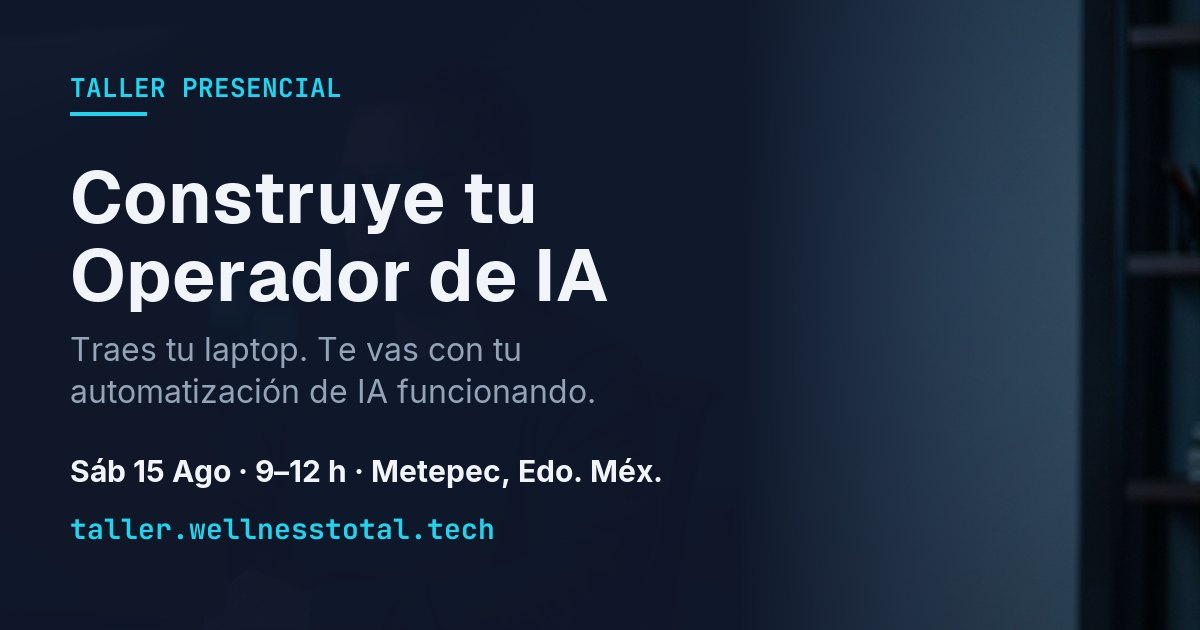
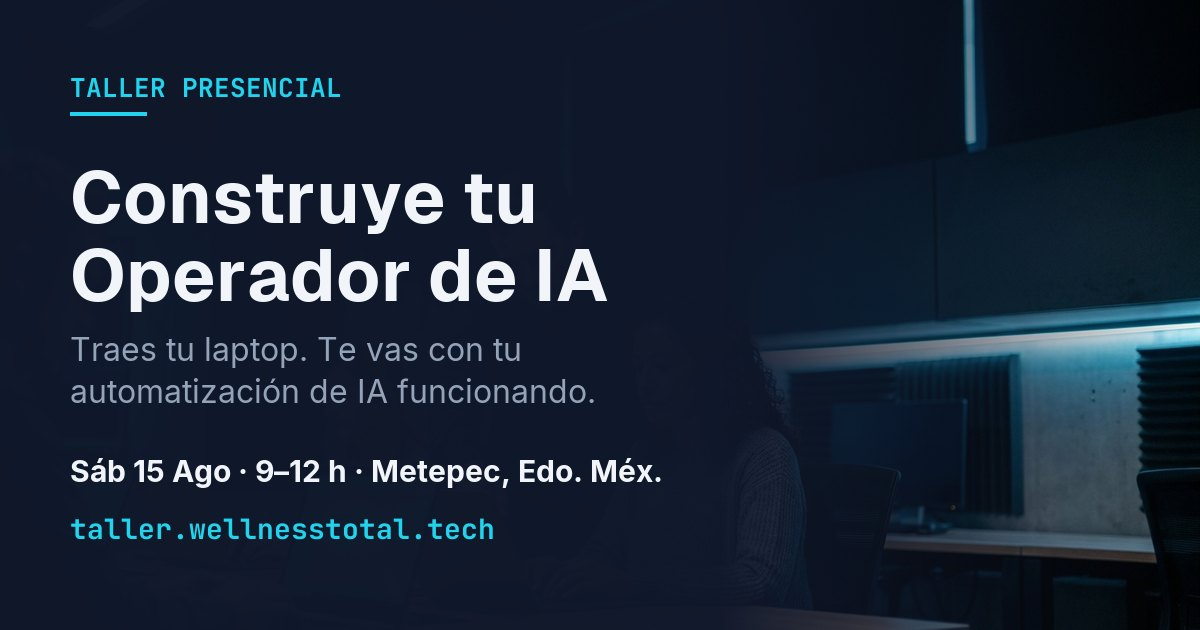
feat: imagenes Kie nuevas + quitar eyebrows de secciones
Hero workshop + 2 bandas (sala colaborativa, construyendo). OG regenerada.
Eliminados los 9 titulillos .eyebrow de las secciones.

Changed region(s): [[0.6475, 0.0, 1.0, 1.0]]

diff --git a/index.html b/index.html
@@ -78,6 +78,10 @@ h1,h2,h3 { font-family:var(--serif); font-weight:800; line-height:1.1; letter-sp
 .trust { margin-top:26px; display:flex; flex-wrap:wrap; gap:8px 22px; font-size:.82rem; color:var(--text-muted); }
 .trust span { display:flex; align-items:center; gap:7px; }
 
+/* ---------- IMG BAND ---------- */
+.img-band { border-radius:20px; overflow:hidden; border:1px solid var(--border); box-shadow:0 20px 50px rgba(2,6,23,.45); }
+.img-band img { display:block; width:100%; height:clamp(210px,38vw,430px); object-fit:cover; }
+
 /* ---------- BOTONES ---------- */
 .btn-wa {
   display:inline-flex; align-items:center; gap:12px; background:var(--green-wa); color:#fff;
@@ -178,7 +182,6 @@ footer .wrap { display:flex; flex-wrap:wrap; justify-content:space-between; alig
 <header class="hero">
   <div class="hero-bg"><img src="assets/hero.webp" alt=""></div>
   <div class="wrap">
-    <span class="eyebrow">Taller presencial · Metepec</span>
     <h1>Construye tu <span class="grad">Operador de IA</span> en una mañana</h1>
     <p class="hero-sub">No es teoría. Traes tu laptop y te vas con tu propia automatización de IA <b>funcionando</b> — para tu negocio o para venderla como servicio.</p>
     <div class="hero-meta">
@@ -202,17 +205,20 @@ footer .wrap { display:flex; flex-wrap:wrap; justify-content:space-between; alig
 <!-- ============ PROMESA / CONTRASTE ============ -->
 <section class="section">
   <div class="wrap reveal">
-    <span class="eyebrow">Por qué este taller es distinto</span>
     <h2 class="section-title">La mayoría de los cursos de IA te dejan igual que llegaste.</h2>
     <p class="lead">Te enseñan a "prompsear", te vas con apuntes y a los tres días se te olvidó. Aquí es al revés: <b style="color:var(--text)">pasas la mañana construyendo</b>, y te vas con una herramienta que trabaja para ti — la usas el lunes o se la cobras a un cliente.</p>
   </div>
+</section>
+
+<!-- banda imagen: sala colaborativa -->
+<section class="section" style="padding:8px 0 48px;">
+  <div class="wrap reveal"><div class="img-band"><img src="assets/room.webp" alt="Taller presencial: grupo construyendo con laptops en Metepec" loading="lazy"></div></div>
 </section>
 
 <!-- ============ LO QUE CONSTRUYES ============ -->
 <section class="section" style="padding-top:0;">
   <div class="wrap">
     <div class="reveal" style="margin-bottom:36px;">
-      <span class="eyebrow">Lo que vas a construir en vivo</span>
       <h2 class="section-title">Tu Operador de IA, paso a paso</h2>
     </div>
     <div class="grid g3 reveal">
@@ -236,11 +242,15 @@ footer .wrap { display:flex; flex-wrap:wrap; justify-content:space-between; alig
   </div>
 </section>
 
+<!-- banda imagen: construyendo en vivo -->
+<section class="section" style="padding:8px 0 48px;">
+  <div class="wrap reveal"><div class="img-band"><img src="assets/build.webp" alt="Construyendo en vivo con Claude Code: terminal y código" loading="lazy"></div></div>
+</section>
+
 <!-- ============ TE LLEVAS ============ -->
 <section class="section" style="padding-top:0;">
   <div class="wrap reveal">
     <div class="panel">
-      <span class="eyebrow">Te llevas a casa</span>
       <h2 class="section-title" style="margin-bottom:26px;">Un activo, no apuntes</h2>
       <ul class="check-list">
         <li><svg width="24" height="24" viewBox="0 0 24 24" fill="none" stroke="#22D3EE" stroke-width="2.4" stroke-linecap="round" stroke-linejoin="round"><path d="M20 6 9 17l-5-5"/></svg><span><b>Tu Operador de IA funcionando</b> en tu propia laptop — reutilizable, tuyo, listo para trabajar.</span></li>
@@ -254,7 +264,6 @@ footer .wrap { display:flex; flex-wrap:wrap; justify-content:space-between; alig
 <!-- ============ DIFERENCIADOR: PRE-SETUP ============ -->
 <section class="section" style="padding-top:0;">
   <div class="wrap reveal">
-    <span class="eyebrow">El taller empieza antes del sábado</span>
     <h2 class="section-title">Llegas a construir, no a instalar</h2>
     <p class="lead">Al inscribirte te acompañamos a dejar tu computadora lista con una <b style="color:var(--text)">sesión de setup guiada</b>. Nada de perder la primera hora peleando con instalaciones ni "se me trabó la compu". El día del taller abres tu laptop y arrancas a construir de inmediato. <b style="color:var(--text)">De eso casi nadie se hace cargo — nosotros sí.</b></p>
   </div>
@@ -264,7 +273,6 @@ footer .wrap { display:flex; flex-wrap:wrap; justify-content:space-between; alig
 <section class="section" style="padding-top:0;">
   <div class="wrap">
     <div class="reveal" style="margin-bottom:30px;">
-      <span class="eyebrow">Para quién es</span>
       <h2 class="section-title">Si te suena alguno de estos, es para ti</h2>
     </div>
     <div class="grid g3 reveal">
@@ -279,7 +287,6 @@ footer .wrap { display:flex; flex-wrap:wrap; justify-content:space-between; alig
 <section class="section" style="padding-top:0;">
   <div class="wrap reveal">
     <div class="panel">
-      <span class="eyebrow">Los datos del taller</span>
       <h2 class="section-title" style="margin-bottom:26px;">Logística</h2>
       <dl class="logi">
         <dt>Fecha</dt><dd><b>Sábado 15 de agosto de 2026</b> · 9:00 a 12:00 h</dd>
@@ -296,7 +303,6 @@ footer .wrap { display:flex; flex-wrap:wrap; justify-content:space-between; alig
 <section class="section" style="padding-top:0;">
   <div class="wrap reveal">
     <div class="price-card">
-      <span class="eyebrow" style="padding-left:0;">Inversión</span>
       <div><span class="price-anchor">Precio estándar $2,490</span></div>
       <div class="price-big">$1,290 <span>MXN</span></div>
       <div style="color:var(--text-muted); font-size:.9rem;">Precio fundador · primera cohorte</div>
@@ -314,7 +320,6 @@ footer .wrap { display:flex; flex-wrap:wrap; justify-content:space-between; alig
 <!-- ============ FAQ ============ -->
 <section class="section" style="padding-top:0;">
   <div class="wrap reveal">
-    <span class="eyebrow">Dudas frecuentes</span>
     <h2 class="section-title" style="margin-bottom:26px;">Antes de apartar tu lugar</h2>
     <details><summary>¿Necesito saber programar?</summary><div class="a">No. Claude Code hace el trabajo pesado; tú diriges. El pre-setup deja tu compu lista y el grupo es reducido para que nadie se quede atrás. Si nunca has tocado la terminal, este taller está diseñado para ti.</div></details>
     <details><summary>¿Qué necesito traer?</summary><div class="a">Tu laptop (Windows o Mac) cargada. Nada más. Antes del taller te guiamos para dejarla lista en una sesión de setup.</div></details>
